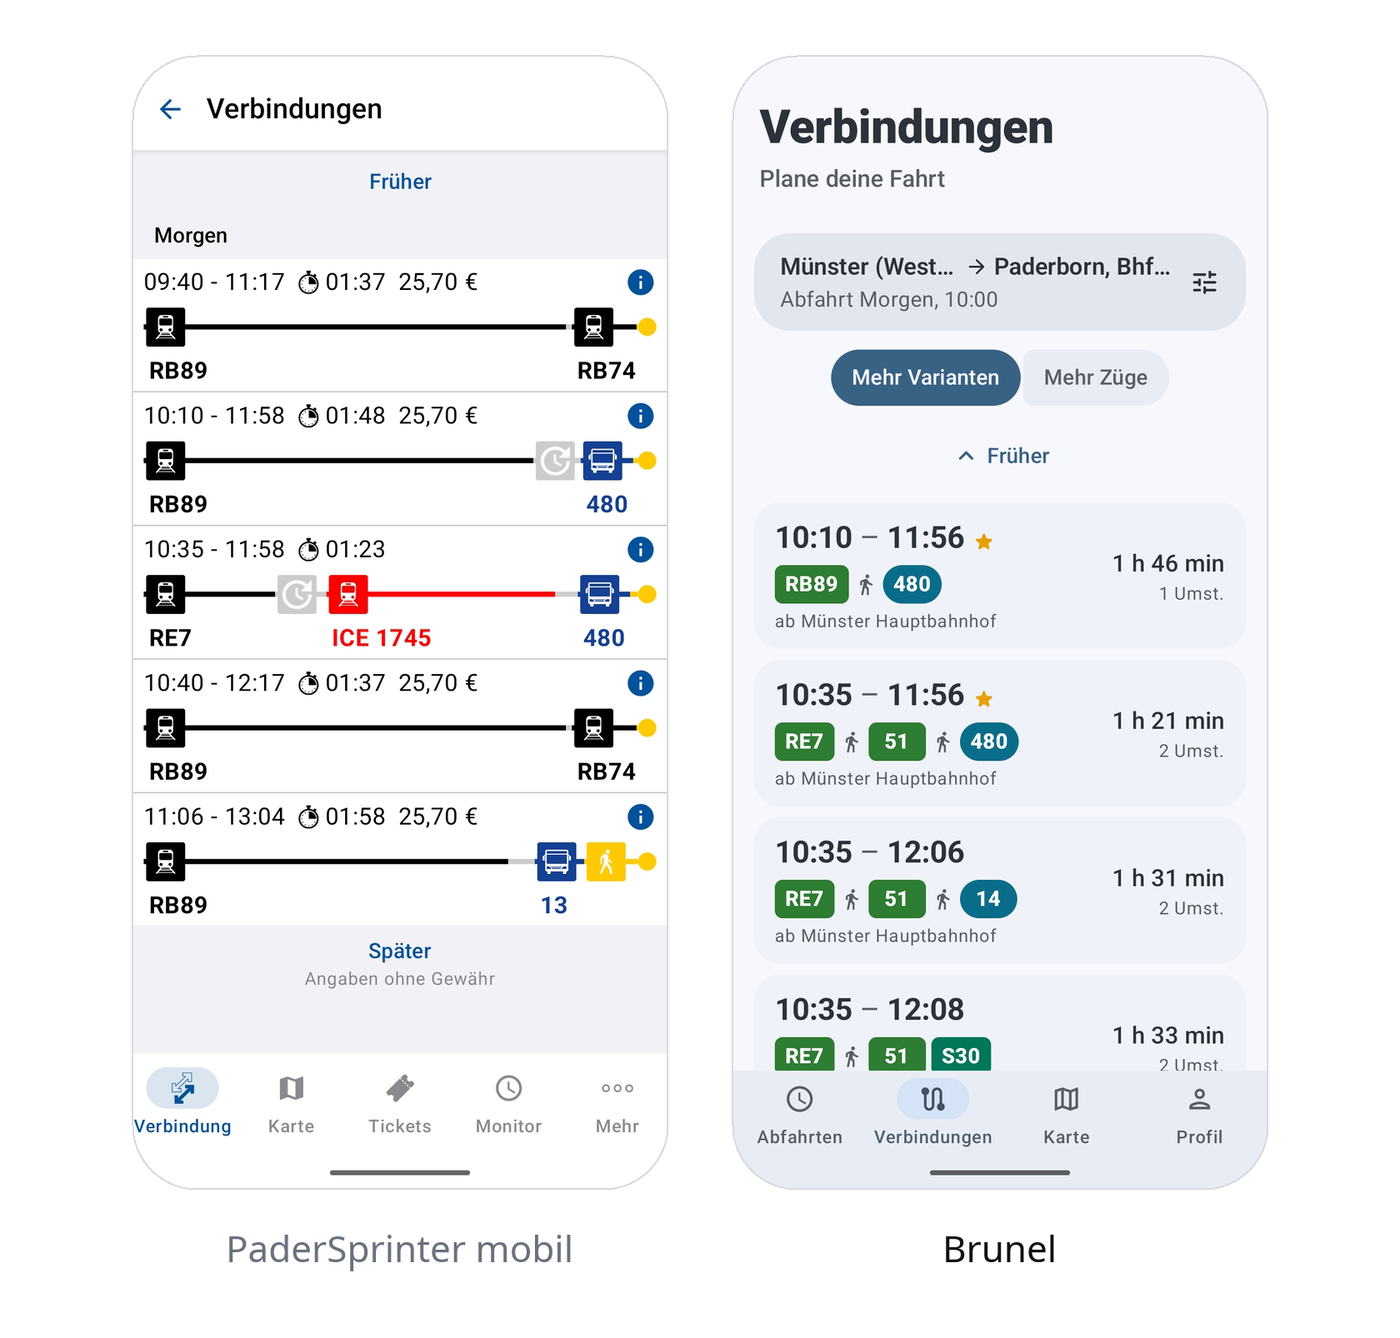
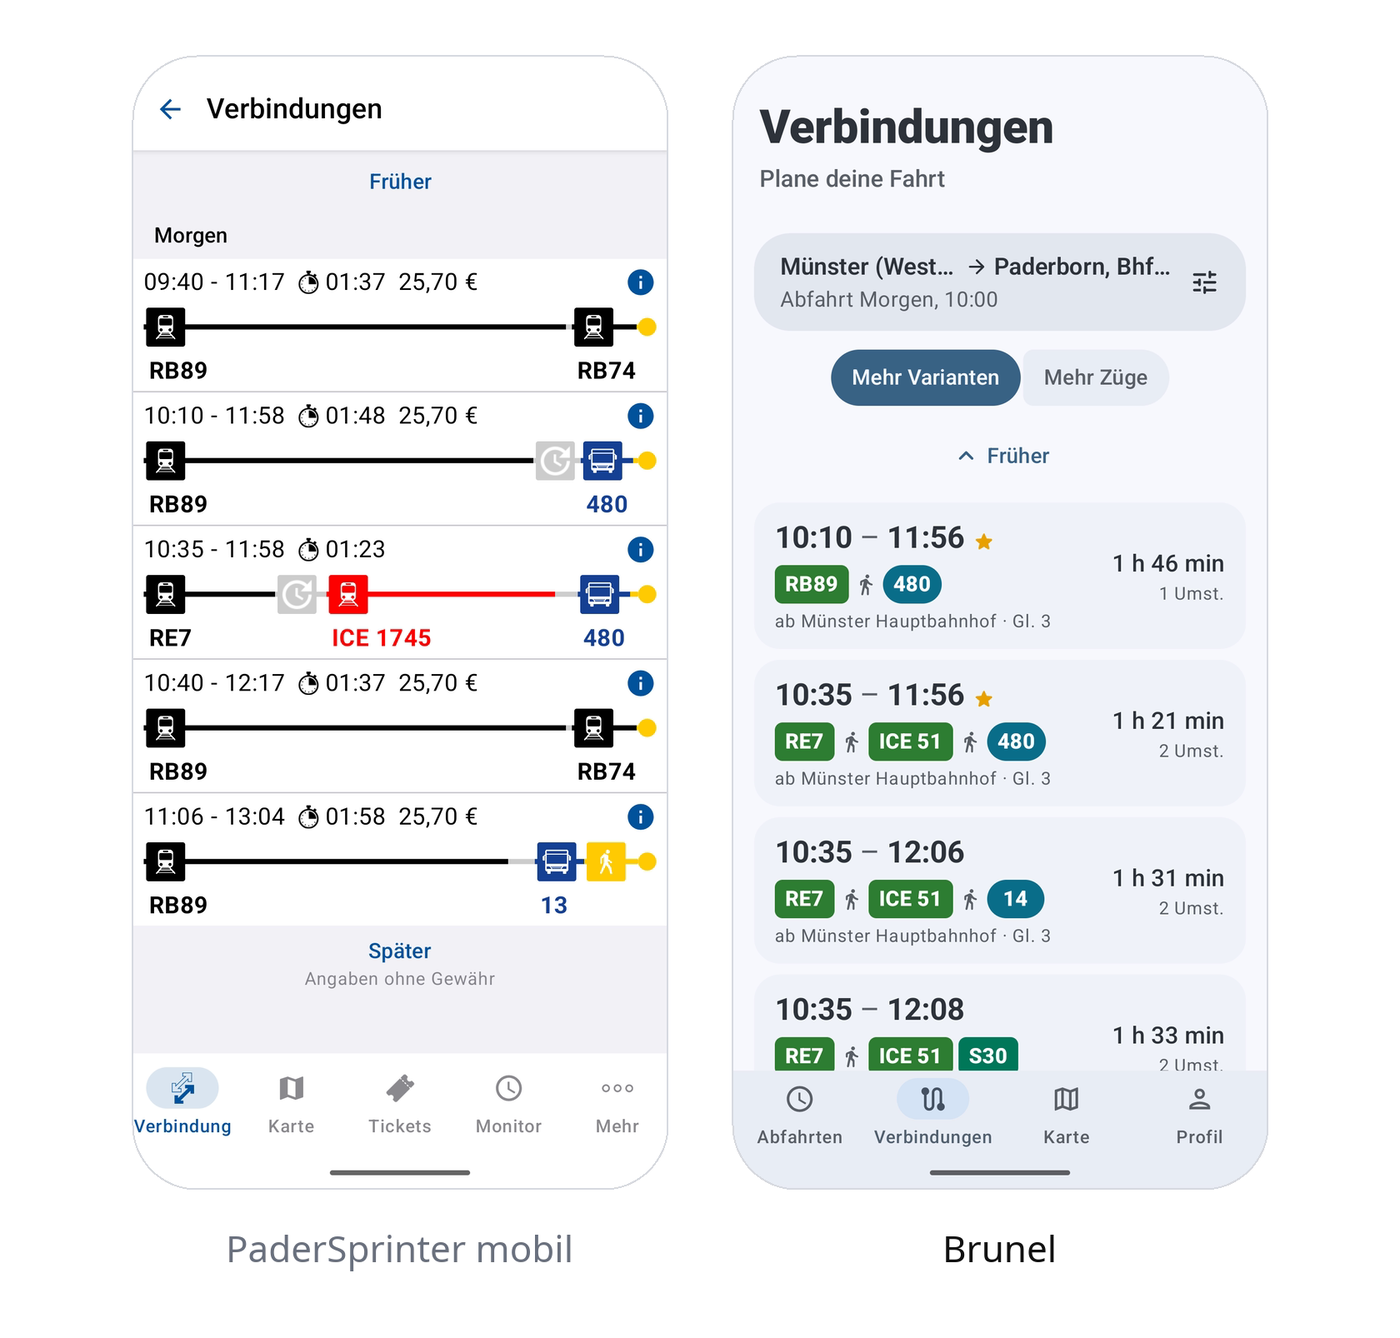
README: trip detail comparison, updated connection list

Changed region(s): [[0.6143, 0.6435, 0.7679, 0.7048], [0.6143, 0.5209, 0.7679, 0.5822], [0.6143, 0.7661, 0.7371, 0.7967]]

diff --git a/README.md b/README.md
@@ -28,7 +28,10 @@ Kotlin · Jetpack Compose · Material 3 Expressive
 <table>
 <tr>
 <td align="center"><img src="docs/media/compare-results.png" width="420" alt="Connection list: PaderSprinter mobil and Brunel"><br><sub>Verbindungen: Münster Hbf to Paderborn Kasseler Tor, Monday 10:00</sub></td>
-<td align="center"><img src="docs/media/compare-board.png" width="420" alt="Stop board of Paderborn Hbf: PaderSprinter mobil and Brunel"><br><sub>Abfahrten: stop board of Paderborn Hbf</sub></td>
+<td align="center"><img src="docs/media/compare-detail.png" width="420" alt="Trip details: PaderSprinter mobil and Brunel"><br><sub>The same trip in detail (RE7, ICE, bus 480)</sub></td>
+</tr>
+<tr>
+<td align="center" colspan="2"><img src="docs/media/compare-board.png" width="420" alt="Stop board of Paderborn Hbf: PaderSprinter mobil and Brunel"><br><sub>Abfahrten: stop board of Paderborn Hbf</sub></td>
 </tr>
 </table>
 
